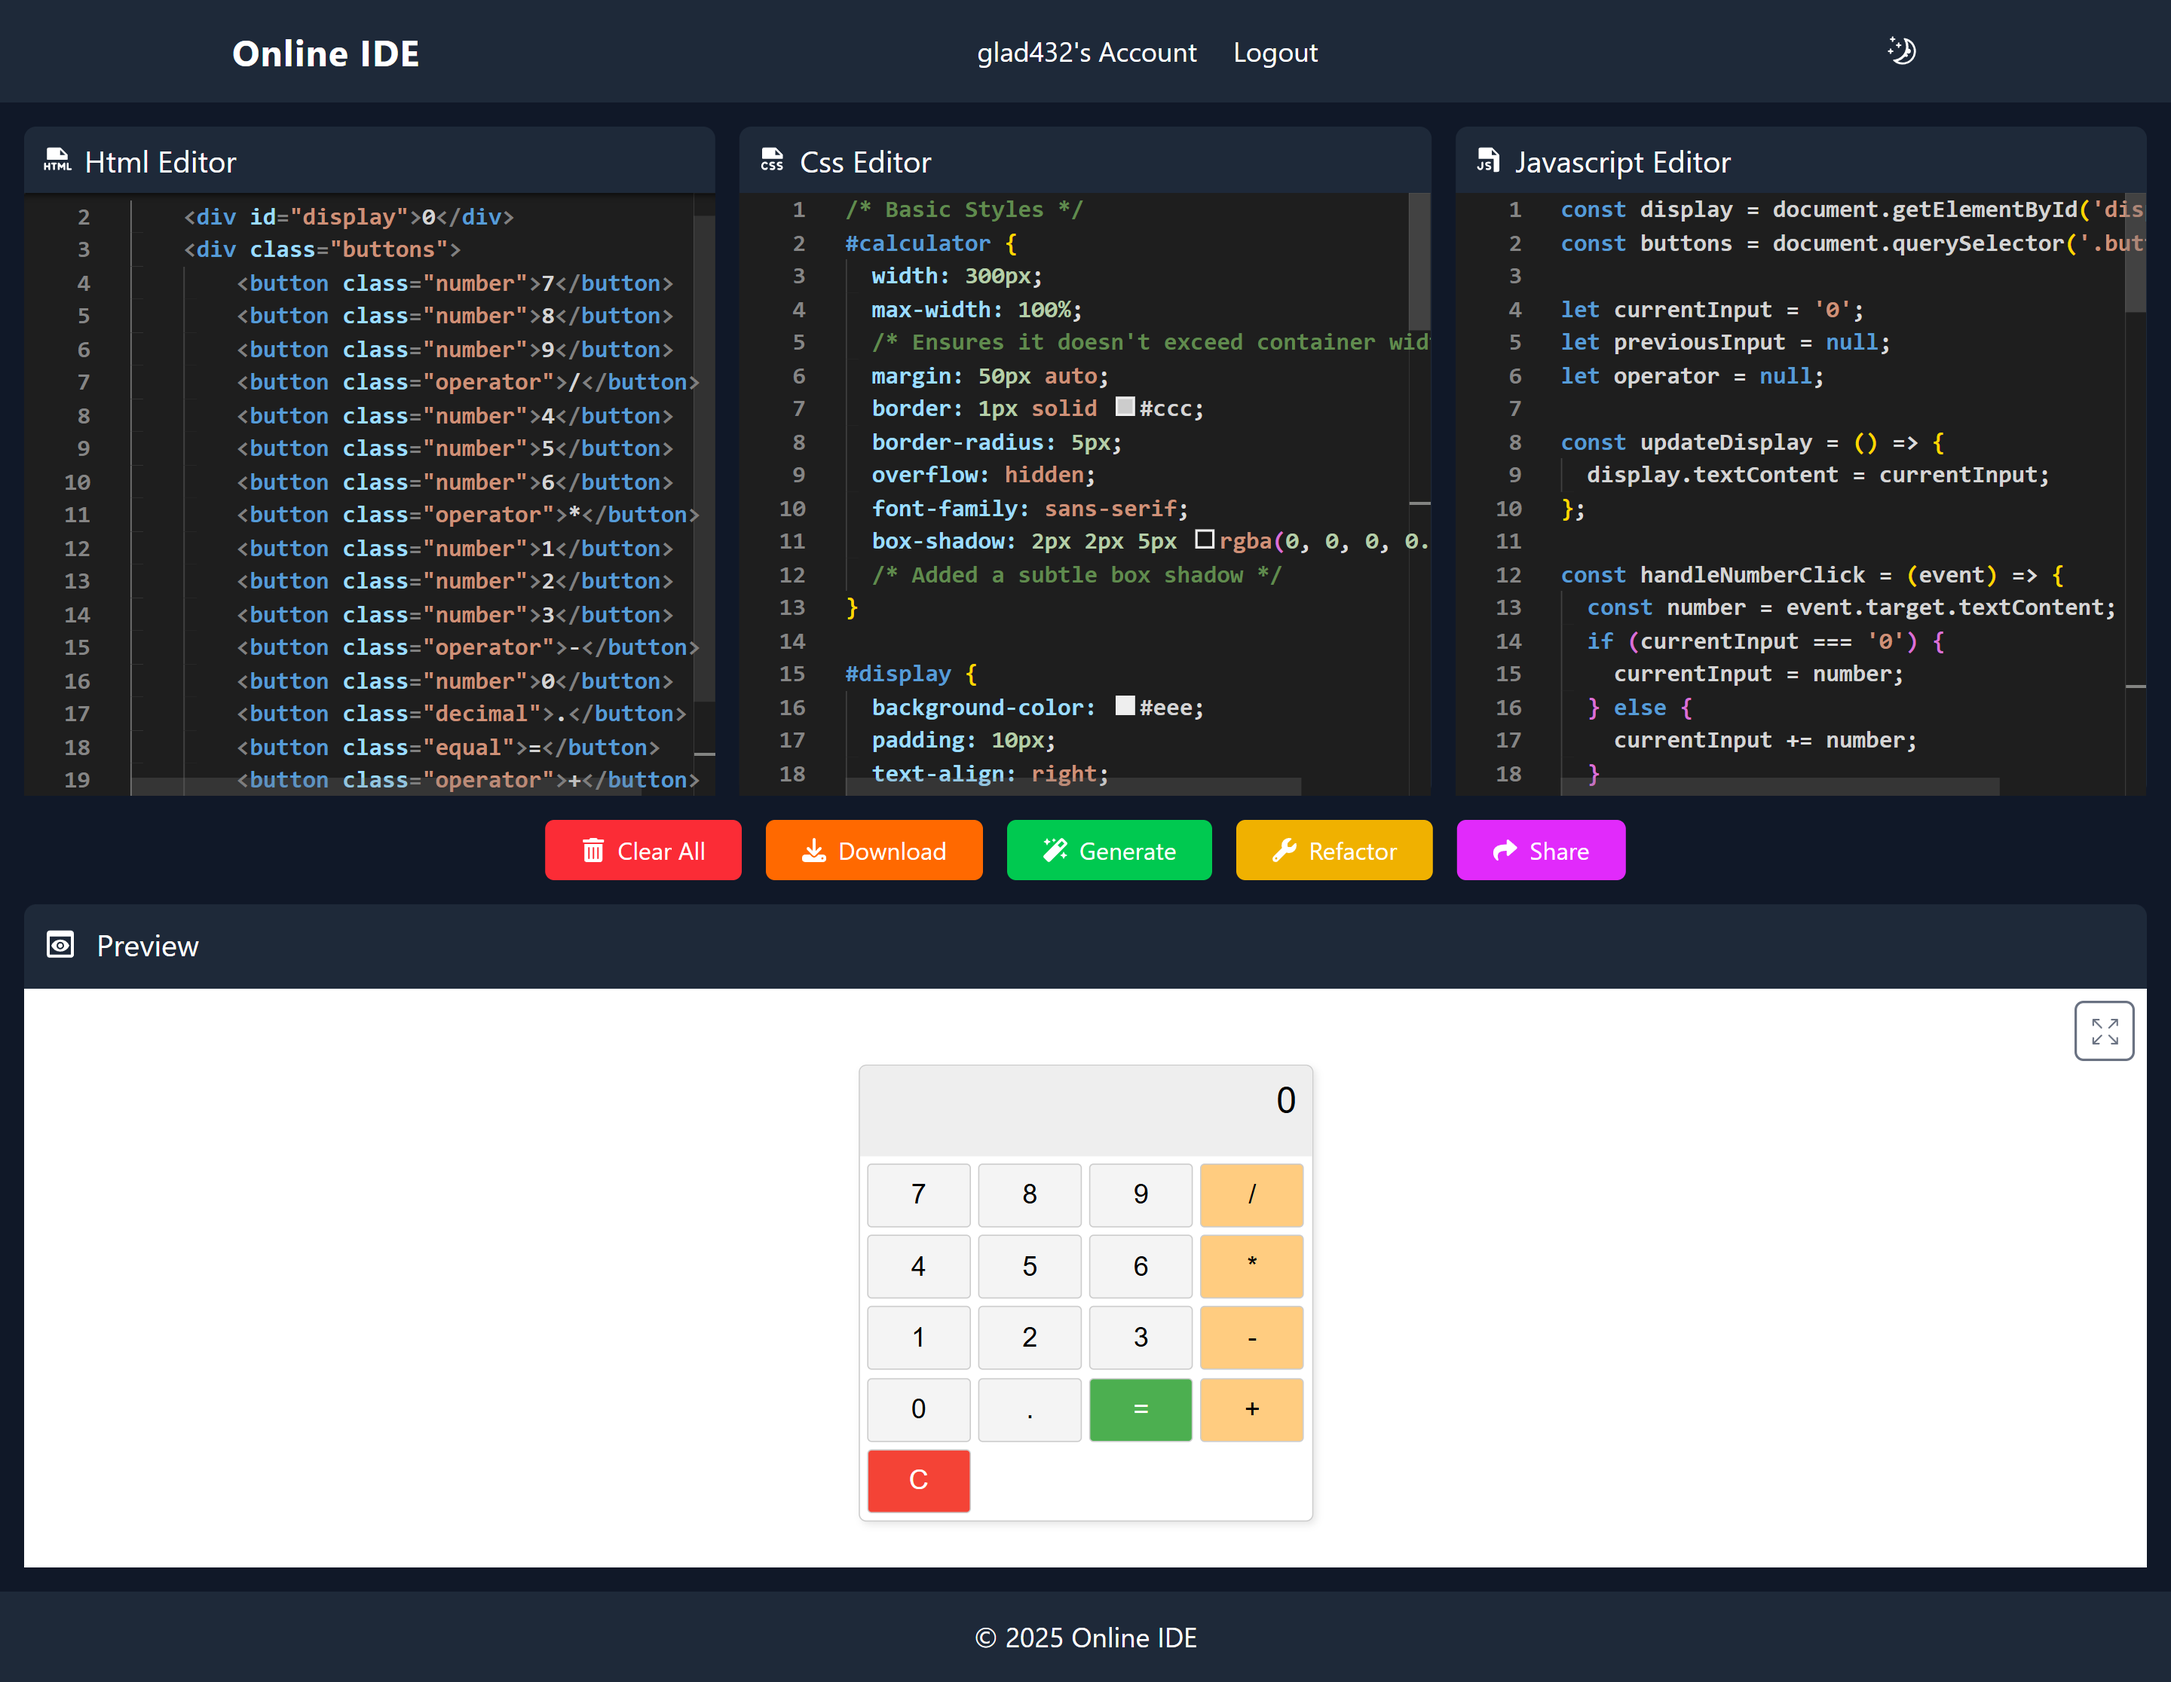
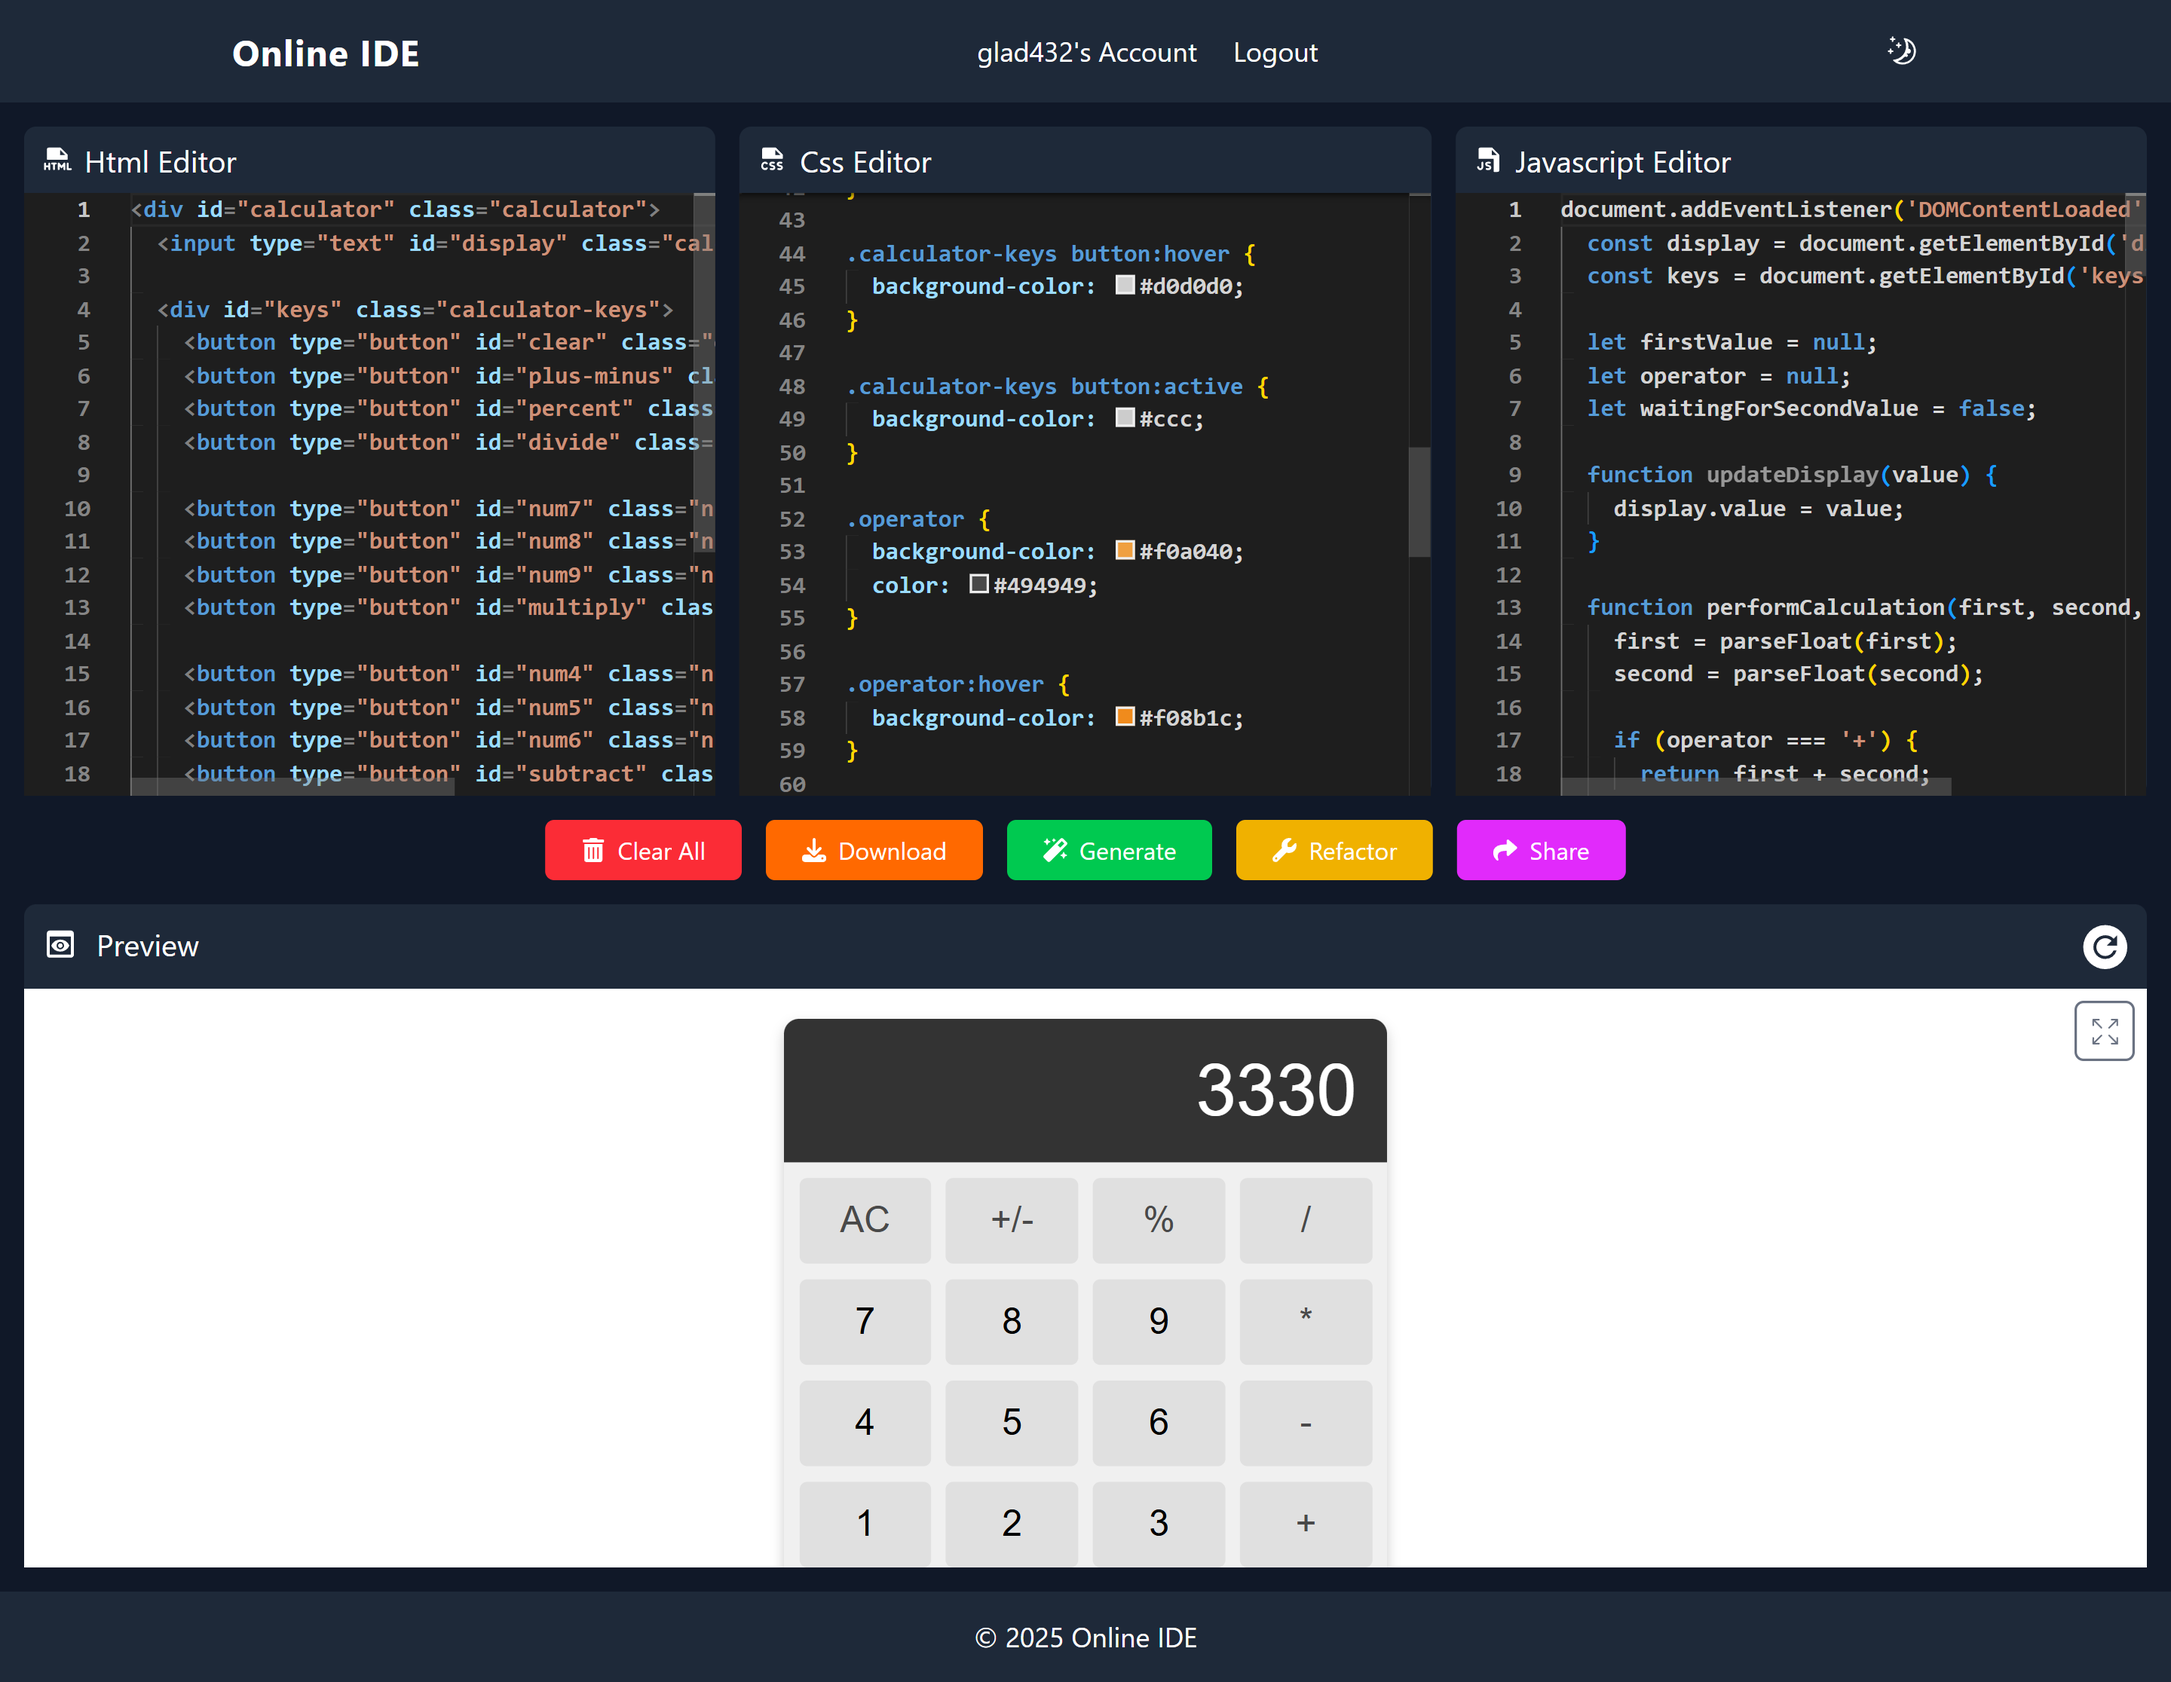
main

diff --git a/Frontend/src/Editor.jsx b/Frontend/src/Editor.jsx
@@ -5,6 +5,7 @@ import ShareLinkModal from "./utils/ShareLinkModal.js";
 import { useNavigate } from "react-router-dom";
 import { PiFileHtmlFill, PiFileCssFill, PiFileJsFill } from "react-icons/pi";
 import { MdPreview } from "react-icons/md";
+import { IoMdRefreshCircle } from "react-icons/io";
 import { SlSizeFullscreen } from "react-icons/sl";
 import { FaSpinner, FaDownload, FaWrench } from "react-icons/fa6";
 import { FaMagic, FaTrashAlt, FaShare } from "react-icons/fa";
@@ -91,6 +92,7 @@ const Editor = ({ isDarkMode, value, shareIdData }) => {
   const [isRefactorBtnPressed, setisRefactorBtnPressed] = useState(false);
   const [isLoggedIn, setIsLoggedIn] = useState(false);
   const [isEditorReadOnly, setIsEditorReadOnly] = useState(false);
+  const [isRefreshing, setIsRefreshing] = useState(false);
 
   const iframeRef = useRef(null);
 
@@ -206,6 +208,14 @@ const Editor = ({ isDarkMode, value, shareIdData }) => {
       </html>
     `);
     newWindow.document.close();
+  };
+
+  const handleRefresh = () => {
+    setIsRefreshing(true);
+    updatePreview();
+    setTimeout(() => {
+      setIsRefreshing(false);
+    }, 1000);
   };
 
   useEffect(() => {
@@ -859,6 +869,17 @@ const Editor = ({ isDarkMode, value, shareIdData }) => {
         >
           <SlSizeFullscreen className="inline-flex text-xl pb-[3px]" />
         </button>
+
+        <button
+          onClick={handleRefresh}
+          className={`absolute top-2 right-2 w-10 h-10 bg-transparent text-white rounded-md transition-all duration-300 hover:text-gray-500 ${
+            isRefreshing ? "animate-spin" : ""
+          }`}
+          title="Refresh Preview"
+        >
+          <IoMdRefreshCircle className="inline-flex text-4xl" />
+        </button>
+
         <iframe
           ref={iframeRef}
           title="Preview"

diff --git a/Frontend/src/Header.jsx b/Frontend/src/Header.jsx
@@ -176,7 +176,7 @@ const Header = ({ isDarkMode, toggleTheme }) => {
           <div className="flex items-center space-x-4">
             <button
               onClick={toggleTheme}
-              className="text-xl focus:outline-none p-2 rounded-full focus:outline-none hover:bg-gray-700 transition-colors duration-200"
+              className="text-xl focus:outline-none p-2 rounded-full hover:bg-gray-700 transition-colors duration-200"
             >
               {isDarkMode ? (
                 <RxMoon className="text-white" />
@@ -187,7 +187,7 @@ const Header = ({ isDarkMode, toggleTheme }) => {
 
             <button
               onClick={() => setIsDropdownOpen(!isDropdownOpen)}
-              className="text-xl focus:outline-none p-2 rounded-full focus:outline-none hover:bg-gray-700 transition-colors duration-200 md:hidden"
+              className="text-xl focus:outline-none p-2 rounded-full hover:bg-gray-700 transition-colors duration-200 md:hidden"
             >
               <FaBarsStaggered className="text-white" />
             </button>
